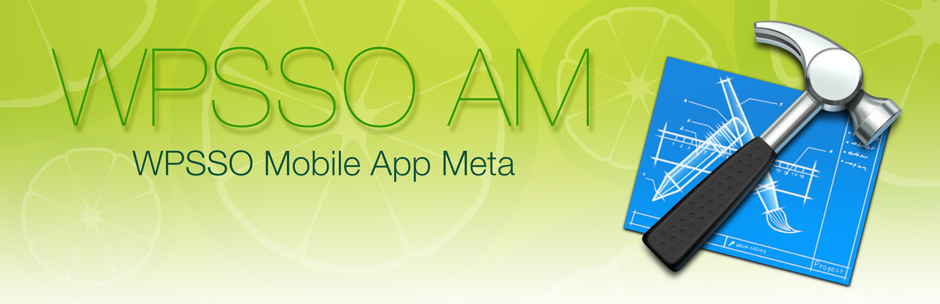
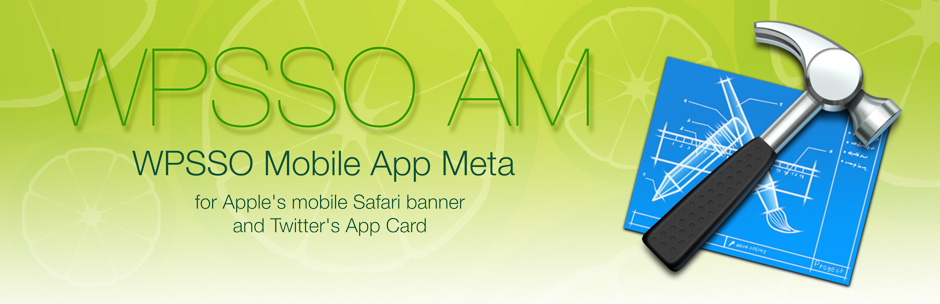
non-essential support files (documentation and assets)

Changed region(s): [[0.1851, 0.6513, 0.4936, 0.7697]]

diff --git a/index.html b/index.html
@@ -25,7 +25,7 @@
         </ul>
       </header>
       <section>
-<h1>WPSSO Mobile App Meta for mobile Safari and Twitter&#039;s App Card</h1>
+<h1>WPSSO Mobile App Meta for Apple&#039;s mobile Safari banner and Twitter&#039;s App Card</h1>
 
 <table>
 <tr><th align="right" valign="top" nowrap>Plugin Name</th><td>WPSSO Mobile App Meta</td></tr>
@@ -42,7 +42,7 @@
 
 <p style="margin:0;"><img class="readme-icon" src="https://surniaulula.github.io/wpsso-am/assets/icon-256x256.png"></p>
 
-<p><strong>Promote your website mobile App with a banner in Apple's mobile Safari.</strong></p>
+<p><strong>Promote your website's mobile App with a banner in Apple's mobile Safari.</strong></p>
 
 <p><strong>Add <a href="https://dev.twitter.com/cards/types/app">Twitter App Card</a> meta tags to mobile App product pages:</strong></p>
 
